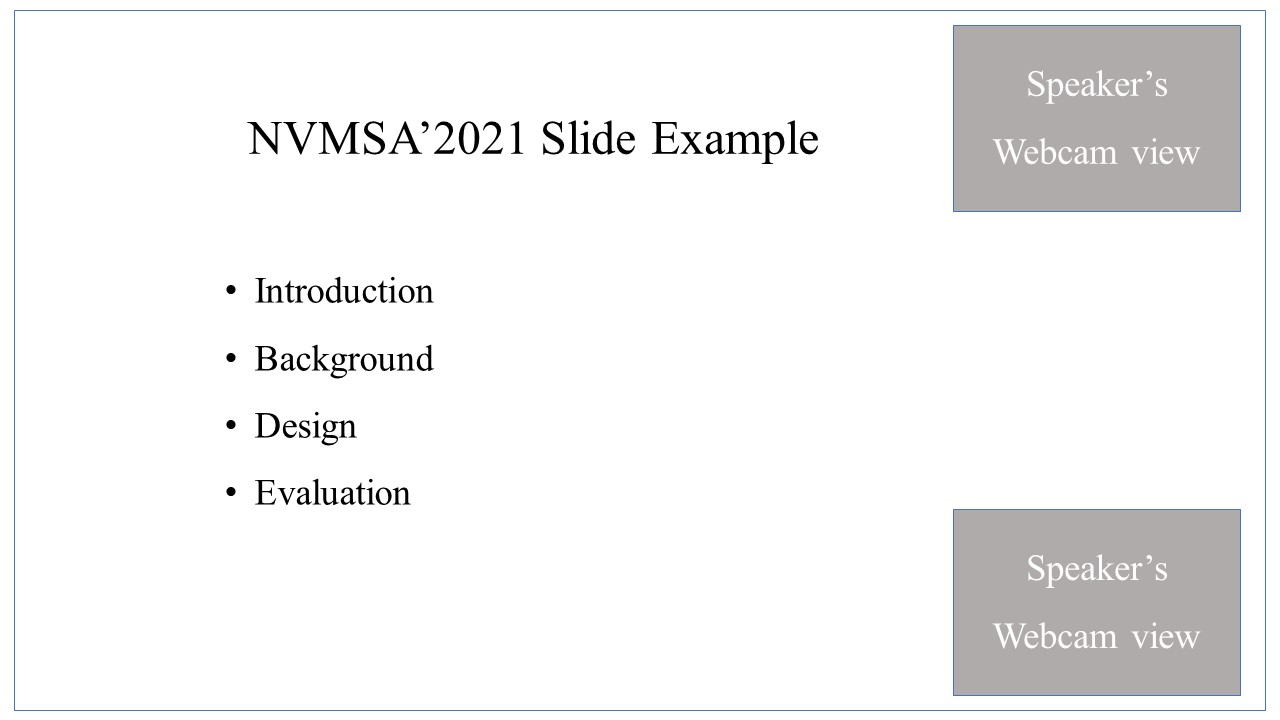
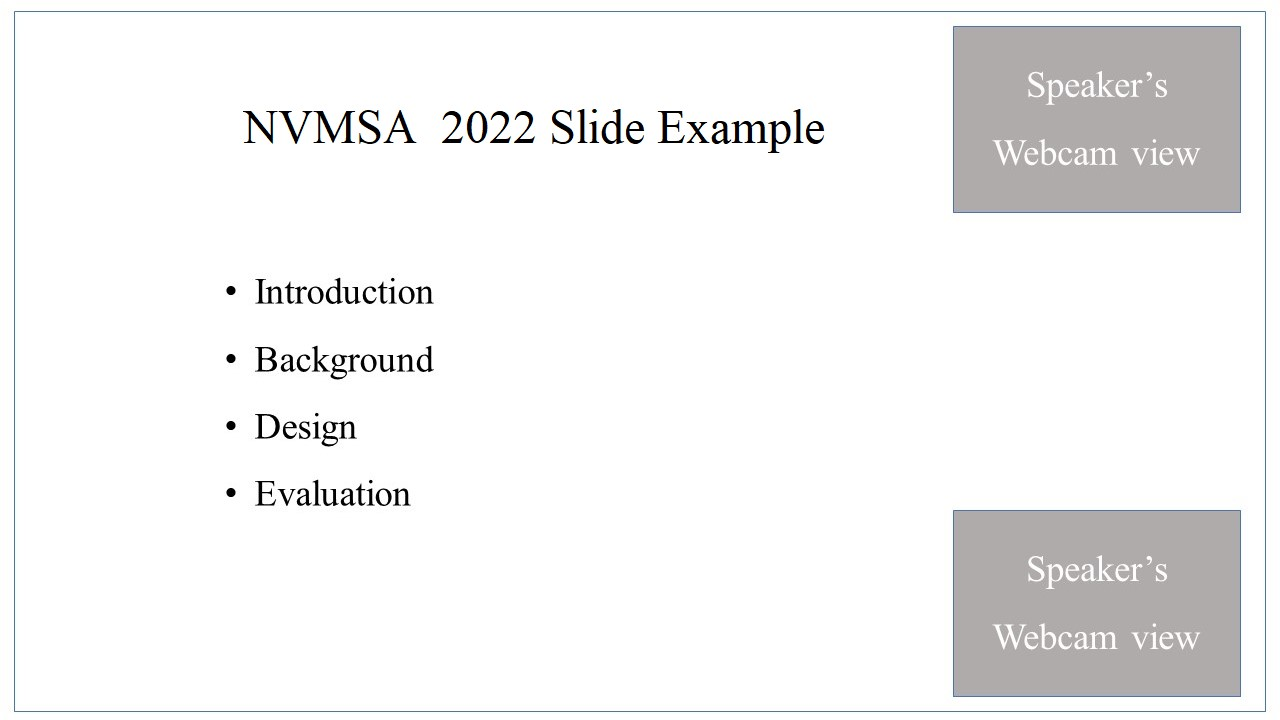
Add files via upload

diff --git a/ifp.html b/ifp.html
@@ -2,7 +2,7 @@
 <!-- saved from url=(0056)https://nvmsa2019.github.io/index/pages/submissions.html -->
 <!DOCTYPE html PUBLIC "" ""><HTML lang="en" dir="ltr"><HEAD><META 
 content="IE=11.0000" http-equiv="X-UA-Compatible">
- <TITLE>IEEE NVMSA 2021</TITLE> 
+ <TITLE>IEEE NVMSA 2022</TITLE> 
 <META http-equiv="Content-Type" content="text/html; charset=utf-8"> <LINK href="layout.css" 
 rel="stylesheet" type="text/css"> <!--[if lt IE 9]><script src="scripts/html5shiv.js"></script><![endif]--> 
 <STYLE type="text/css">
@@ -22,22 +22,27 @@ rel="stylesheet" type="text/css"> <!--[if lt IE 9]><script src="scripts/html5shi
 <BODY>
 <DIV class="wrapper row1"><HEADER class="clear" id="header">
 <DIV id="hgroup">
-<H1><A href="https://nvmsa2021.github.io/">IEEE NVMSA 2021</A></H1>
-<H2 style="color: rgb(238, 238, 238);">The 11th IEEE Non-Volatile Memory Systems and Applications Symposium<BR>August 23-24, 2022, Hybrid Conference</H2>
+<H1><A href="https://nvmsa2022.github.io/">IEEE NVMSA 2022</A></H1>
+<H2 style="color: rgb(238, 238, 238);">The 11th IEEE Non-Volatile Memory Systems and Applications Symposium<BR>August 23-25, 2022, Taipei, Taiwan (Hybrid Conference).</H2>
 </DIV>
 <NAV>
 <UL>
   <LI class="top"><A href="index.html">Home</A></LI>
   <LI class="top"><A href="cfp.html">Call for papers</A></LI>
-  <LI class="top"><A href="submissions.html">Submissions</A></LI>
-  <!-- <LI class="top"><A href="program.html">Programs</A></LI> -->
+  <LI class="top"><A href="#">Submissions</A>           
+    <UL>
+      <LI><A href="submissions.html">Paper Submission</A><BR></LI>
+      <LI><A href="camera.html">Camera-ready Version</A><BR></LI>
+    </UL>
+  </LI>  
   <LI class="top"><A href="#">Programs</A>           
     <UL>
-      <LI><A href="program.html">Main Program</A><BR></LI>
+      <LI><A href="program.html">Tentative Program</A><BR></LI>
       <LI><A href="ifp.html">Instructions for Presenters</A><BR></LI>
     </UL>
   </LI>
-  <LI class="top"><A href="registration.html">Registration</A>    </LI>
+  <LI class="top"><A href="registration.html">Registration</A></LI>
+  <LI class="top"><A href="visa.html">VISA Info.</A>    </LI>
 <!--
   <UL>
     <LI><A 
@@ -50,7 +55,7 @@ rel="stylesheet" type="text/css"> <!--[if lt IE 9]><script src="scripts/html5shi
   <LI class="last"><A href="#">Organization</A>           
     <UL>
       <LI><A href="committee.html">Committees</A><BR></LI>
-      <LI><A href="organizer.html">Organizer &amp; Sponsorship</A><BR></LI>
+      <LI><A href="organizer.html">Organizer &amp; Sponsorshi<BR></a></LI>
     </UL>
   </LI>
 </UL>
@@ -96,18 +101,18 @@ program co-chairs no later than 30 days before the conference.-->
   });
 </script> -->
 
-<H2>Instructions for Presenters</H2>
+<H2>Instructions for Online Presenters</H2>
 <HR>
 
 <P>
-  These instructions are for presenters at the <B>10th IEEE Non-Volatile Memory Systems and Applications Symposium</B>.
+  These instructions are for presenters who will be presenting "<b>online</b>" at the <B>11th IEEE Non-Volatile Memory Systems and Applications Symposium</B>.
 </P>
 <P>
-  <B>Presentations</B>: Authors are required to record videos of their presentations and prepare their slide decks prior to the conference event. Videos and slide decks are due on <B style="color:red">Sunday, August 15, 2021 23:59 (AoE)</B> and must be submitted via <B>EasyChair</B>.
+  <B>Presentations</B>: Authors are required to prepare their slide decks prior to the conference event and to record videos of their presentations and. Videos are due on <B style="color:red">Monday, August 15, 2022 23:59 (AoE)</B> and must be submitted via <B>EasyChair</B>.
 </P>
-
+Authors must prepare <B>a video of 20-25 minutes in length</B>: This video will be played live for you by the NVMSA staff during the event at your designated talk time slot of the program and will be followed by a Q&A session that authors will answer live.
+</p>
 <UL>
-  <LI>Authors must prepare <B>a video of 20-25 minutes in length</B>: This video will be played live for you by the NVMSA staff during the event at your designated talk time slot of the program and will be followed by a Q&A session that authors will answer live.</LI>
   <LI><B>Video Specifications</B>: Please follow the below guidelines for preparing a video presentation of your accepted papers.</LI>
   <UL>
     <LI>MP4 file format with 1080p preferred</LI>
@@ -126,7 +131,6 @@ program co-chairs no later than 30 days before the conference.-->
 <UL>
   <LI><B>Slides Specifications</B></LI>
     <UL>
-      <LI>Please upload the talk slides from the same video presentation that will be played during the event.</LI>
       <LI>Introduction slide at the beginning of your presentation that clearly lists the name of your paper and the authors.</LI>
       <LI>Closing slide to thank your audience and/or collaborators and list your contact information should you wish to receive follow-up questions from attendees.</LI>
       <LI>Please make sure to send a PDF format for your slide decks.</LI>
@@ -139,11 +143,11 @@ program co-chairs no later than 30 days before the conference.-->
   When you are ready, please submit your presentation video and slide decks via easychair.
 </P>
 <UL>
-  <LI>Go to submission webpage <A href="https://easychair.org/my/conference?conf=nvmsa2021#"><SPAN 
-    class="style3">https://easychair.org/my/conference?conf=nvmsa2021#</SPAN></A>.</LI>
-  <LI>In the page of <B>My Submissions for NVMSA 2021</B>, click on the <B>magnifier</B> icon to <B>view</B> your accepted submission.</LI>
+  <LI>Go to submission webpage <A href="https://easychair.org/my/conference?conf=nvmsa2022#"><SPAN 
+    class="style3">https://easychair.org/my/conference?conf=nvmsa2022#</SPAN></A>.</LI>
+  <LI>In the page of <B>My Submissions for NVMSA 2022</B>, click on the <B>magnifier</B> icon to <B>view</B> your accepted submission.</LI>
   <LI>Select <B>Add or update files</B> on the right top corner.</LI>
-  <LI>Select and upload your <B>Video</B> and <B>Slides</B>.</LI>
+  <LI>Select and upload your <B>Video</B>.</LI>
 </UL>
 
 <H2>General Recording Tips</H2>
@@ -176,7 +180,7 @@ program co-chairs no later than 30 days before the conference.-->
   <LI>Your video will export once your meeting has ended. Select <B>Stop Share</B> to end your screen share.</LI>
   <LI>Select <B>End>End Meeting for All</B> in the bottom right corner of your Zoom meeting.</LI>
   <LI>Your video will now automatically convert and your computer may prompt you for access to the Documents folder to save your video. Click <B>OK</B>.</LI>
-  <LI>Your video is now saved to your computer in the Documents folder. Be sure to review the footage of your presentation for any technical issues such as lapses in audio or lost webcam or slide footage. Please title your mp4 file as </B>nvmsa2021_video_[lastname].mp4</B>.</LI>
+  <LI>Your video is now saved to your computer in the Documents folder. Be sure to review the footage of your presentation for any technical issues such as lapses in audio or lost webcam or slide footage.</LI>
 </UL>
 <div align="center">
   <IMG style="width: 640px; height: 400px;" alt="" src="video_example.jpg">
@@ -199,12 +203,22 @@ program co-chairs no later than 30 days before the conference.-->
   <LI>the NVMSA preferred picture-in-picture format detailed above</LI>
   <LI>MP4 file format (.mp4)</LI>
 </UL>
-
+</p>
+Here are some links of instructions on recording a meeting on common platforms:
+</p>
+<UL>
+  <LI>WebEx: <a href="https://help.webex.com/en-us/n62735y/Record-a-Cisco-Webex-Meeting"> Video Conferencing – Record a Cisco Webex Meeting</a></LI>
+  <LI>Skype: <a href="https://www.bemidjistate.edu/offices/its/knowledge-base/skype-for-business-recording-a-meeting/">Skype for Business: Recording a Meeting | Information Technology Services | Bemidji State University</a></LI>
+  <LI>Google Meet: <a href="https://support.google.com/meet/answer/9308681?hl=en">Record a video meeting – Meet Help</a></LI>
+  <LI>Zoom: <a href="https://support.zoom.us/hc/en-us/articles/201362473-Local-Recording">Local Recording – Zoom Help Center</a></LI>
+    <LI>Gotomeeting: <a href="https://www.techwalla.com/articles/how-to-record-a-gotomeeting-session">How to Record a GoToMeeting Session | Techwalla and How to Convert and Open the GoToMeeting Recordings</a></LI>
+      <LI>Microsoft Teams: <a href="https://support.office.com/en-us/article/record-a-meeting-in-teams-34dfbe7f-b07d-4a27-b4c6-de62f1348c24">Record a meeting in Teams – Office Support</a></LI>
+</UL>
 </div>
 </div>
 <!-- Footer --> 
 <DIV class="wrapper row3"><FOOTER class="clear" id="footer">
-<P class="fl_left">Copyright © 2021 - All Rights Reserved - <A href="https://nvmsa2021.github.io/">NVMSA2021</A></P>
+<P class="fl_left">Copyright © 2022 - All Rights Reserved - <A href="https://nvmsa2021.github.io/">NVMSA2021</A></P>
 <P class="fl_right">Template by <A title="Free Website Templates" href="http://www.os-templates.com/">OS 
 Templates</A></P>  &nbsp;</FOOTER></DIV>
 

diff --git a/committee.html b/committee.html
@@ -28,7 +28,12 @@ rel="stylesheet" type="text/css"> <!--[if lt IE 9]><script src="scripts/html5shi
       <LI><A href="camera.html">Camera-ready Version</A><BR></LI>
     </UL>
   </LI>  
-  <LI class="top"><A href="program.html">Programs</A></LI> 
+  <LI class="top"><A href="#">Programs</A>           
+    <UL>
+      <LI><A href="program.html">Tentative Program</A><BR></LI>
+      <LI><A href="ifp.html">Instructions for Presenters</A><BR></LI>
+    </UL>
+  </LI>
 <!--  
   <LI class="top"><A href="#">Programs</A>           
     <UL>
@@ -92,65 +97,36 @@ rel="stylesheet" type="text/css"> <!--[if lt IE 9]><script src="scripts/html5shi
 <!--P>Committee being formed for NVMSA 2021.</P-->
 <P>
 <a href="https://www.cspp.cc.u-tokyo.ac.jp/arima/index-e.html">Eishi Arima</a>, The University of Tokyo, Japan<BR>
-<a href="https://pure.ewha.ac.kr/en/persons/hyokyung-bahn">Hyokyung Bahn</a>, Ewha University, Korea<BR>
-<a href="https://cv.archives-ouvertes.fr/jalil-boukhobza">Jalil Boukhobza</a>, ENSTA Bretagne, France<BR>
-<a href="https://www.csie.cgu.edu.tw/~chewei/">Che-Wei Chang</a>, Chang Gung University, Taiwan<BR>
+<a href="https://researchoutput.ncku.edu.tw/en/persons/da-wei-chang">Da-Wei Chang</a>, National Cheng Kung University, Taiwan<BR>
 <a href="https://sites.google.com/view/lpchang">Li-Pin Chang</a>, National Chiao Tung University, Taiwan<BR>
-<a href="https://www.ee.nthu.edu.tw/~mfchang/">Meng-Fan Chang</a>, National Tsing Hua University, Taiwan<BR>
 <a href="https://homepage.iis.sinica.edu.tw/~johnson/">Yuan-Hao Chang</a>, Academia Sinica, Taiwan<BR>
-<a href="http://www.csc.lsu.edu/~fchen/">Feng Chen</a>, Louisiana State University, USA<BR>
 <a href="https://www.ee.ntust.edu.tw/var/file/27/1027/img/2454/988547515.html">Jiann-Liang Chen</a>, National Taiwan University of Science and Technology, Taiwan<BR>
 <a href="https://shuohanchen.com/">Shuo-Han Chen</a>, National Taipei University of Technology, Taiwan<BR>
 <a href="https://tychen0811.github.io/">Tseng-Yi Chen</a>, National Central University, Taiwan<BR>
 <a href="http://www.cs.cqu.edu.cn/info/1492/5639.htm">Xianzhang Chen</a>, Chongqing University, China<BR>
-<a href="https://www.oia.ncnu.edu.tw/wp-content/uploads/2022/02/CV-yjchen.pdf">Yi-Jung Chen</a>, National Chi Nan University, Taiwan<BR>
-<a href="https://scholar.google.com/citations?user=0cEXOJMAAAAJ&hl=en">Zhuan Chen</a>, Microsoft, USA<BR>
-<a href="https://www.ece.ucf.edu/person/ronald-f-demara/">Ronald Demara</a>, University of Central Florida, USA<BR>
-<a href="https://www.ucm.es/directorio?id=9809">Jose Ignacio Gomez</a>, Universidad Complutense de Madrid, Spain<BR>
 <a href="https://researchoutput.ncku.edu.tw/zh/persons/chien-chung-ho">Chien-Chung Ho</a>, National Cheng Kung University, Taiwan<BR>
 <a href="https://faculty.csie.ntust.edu.tw/~jenwei/index.html">Jen-Wei Hsieh</a>, National Taiwan University of Science and Technology, Taiwan<BR>
 <a href="https://researchoutput.ncku.edu.tw/zh/persons/sun-yuan-hsieh">Sun-Yuan Hsieh</a>, National Cheng Kung University, Taiwan<BR>
-<a href="https://sites.pitt.edu/~jthu/">Jingtong Hu</a>, University of Pittsburgh, USA<BR>
-<a href="https://csyhua.github.io/csyhua/index.html">Yu Hua</a>, Huazhong University of Science and Technology, China<BR>
-<a href="https://ece.ntut.edu.tw/p/405-1071-70126,c2678.php?Lang=en">Po-Chun Huang</a>, National Taipei University of Technology, Taiwan<BR>
-<a href="https://jinhohwang.wordpress.com/">Jinho Hwang</a>, Facebook, USA<BR>
-<a href="http://csl.skku.edu/People/Jinkyu">Jinkyu Jeong</a>, Sungkyunkwan University, Korea<BR>
-<a href="https://jungijeong.github.io/">Jungi Jeong</a>, Google, USA<BR>
-<a href="https://arpitj.github.io/">Arpit Joshi</a>, Intel, USA<BR>
-<a href="https://scholar.google.com/citations?user=7DZXXBQAAAAJ&hl=zh-TW">Lei Ju</a>, Shandong University, China<BR>
 <a href="https://www.cs.purdue.edu/homes/chjung/">Changhee Jung</a>, Purdue University, USA<BR>
-<a href="http://camelab.org/">Myoungsoo Jung</a>, Korea Advanced Institute of Science and Technology, Korea<BR>
 <a href="http://shi.buaa.edu.cn/kangwang/en/index.htm">Wang Kang</a>, Beihang University, China<BR>
 <a href="https://ecs.syracuse.edu/faculty-staff/bryan-s-kim/">Bryan S. Kim</a>, Syracuse University, USA<BR>
 <a href="https://gunjae.wordpress.com/">Gunjae Koo</a>, Korea University, Korea<BR>
-<a href="https://sites.google.com/view/yjkwon/home">Youngjin Kwon</a>, Korea Advanced Institute of Science and Technology, Korea<BR>
-<a href="https://koreauniv.pure.elsevier.com/en/persons/junghee-lee">Junghee Lee</a>, Korea University, Korea<BR>
 <a href="https://www.cse.cuhk.edu.hk/~pclee/www/index.html">Patrick P. C. Lee</a>, The Chinese University of Hong Kong , Hong Kong<BR>
 <a href="http://nics.ee.tsinghua.edu.cn/people/Xueqing/">Xueqing Li</a>, Tsinghua University, China<BR>
+<a href="https://yupei-liang.github.io/">Yu-Pei Liang</a>, National Chung Cheng University, Taiwan<BR>
 <a href="https://www.ee.nthu.edu.tw/renshuo/">Ren-Shuo Liu</a>, National Tsing Hua University, Taiwan<BR>
 <a href="http://storage.cs.tsinghua.edu.cn/~lu/">Youyou Lu</a>, Tsinghua University, China<BR>
-<a href="https://homepages.inf.ed.ac.uk/vnagaraj/">Vijayanand Nagarajan</a>, University of Edinburgh, UK<BR>
 <a href="http://next.unist.ac.kr/">Sam H. Noh</a>, UNIST, Korea<BR>
 <a href="https://www.cse.iitd.ac.in/~panda/">Preeti Panda</a>, Indian Institute of Technology Delhi, India<BR>
-<a href="https://scholar.google.com/citations?user=CpIlyesAAAAJ&hl=en">Keni Qiu</a>, Capital Normal University, China<BR>
-<a href="http://csl.skku.edu/People/Euiseong">Euiseong Seo</a>, Sungkyunkwan University, Korea<BR>
+<a href="https://r-sakamoto.github.io/">Ryuichi Sakamoto</a>, Tokyo Institute of Technology, Japan<BR>
 <a href="http://www.cse.cuhk.edu.hk/~shao/">Zili Shao</a>, The Chinese University of Hong Kong, Hong Kong<BR>
 <a href="https://faculty.ecnu.edu.cn/_s16/sl2_en_13906/main.psp">Liang Shi</a>, East China Normal University, China<BR>
-<a href="http://nyx.skku.ac.kr/?page_id=784">Dongkun Shin</a>, Sungkyunkwan University, Korea<BR>
-<a href="https://eecs.pku.edu.cn/info/1504/6956.htm">Guangyu Sun</a>, Peking University, China<BR>
-<a href="https://nbme.ee.nthu.edu.tw/">Kea-Tiong (Samuel) Tang</a>, National Tsing Hua University, Taiwan<BR>
-<a href="https://hiroyuki.tomiyama-lab.org/">Hiroyuki Tomiyama</a>, Ritsumeikan University, Japan<BR>
 <a href="https://intra.engr.ucr.edu/~htseng/">Hung-Wei Tseng</a>, University of California, Riverside, USA<BR>
-<a href="https://toast-lab.tech">Chundong Wang</a>, ShanghaiTech University, China<BR>
 <a href="https://oslab.kaist.ac.kr/professor-youjip-won/">Youjip Won</a>, Korea Advanced Institute of Science and Technology, Korea<BR>
 <a href="https://www.cs.cityu.edu.hk/~jasonxue/">Chun (Jason) Xue</a>, The City University of Hong Kong, Hong Kong<BR>
-<a href="https://www.eecis.udel.edu/~chengmo/Home.html">Chengmo Yang</a>, University of Delaware, USA<BR>
 <a href="http://www.cse.cuhk.edu.hk/~mcyang/">Ming-Chang Yang</a>, The Chinese University of Hong Kong, Hong Kong<BR>
-<a href="https://cse.snu.ac.kr/en/professor/sungjoo-yoo">Sungjoo Yoo</a>, Seoul National University, Korea<BR>
-<a href="https://scholar.google.com/citations?user=Bphl_fIAAAAJ&hl=en">Sungroh Yoon</a>, Seoul National University, Korea<BR>
 <a href="https://mingzhe-zhang.github.io/">Mingzhe Zhang</a>, Chinese Academy of Sciences, China<BR>
 <a href="https://people.cs.pitt.edu/~zhangyt/">Youtao Zhang</a>, University of Pittsburgh, USA<BR>
-<a href="https://sites.google.com/site/yuezhangparis/">Yue Zhang</a>, Beihang University, China<BR>
 <a href="https://zmyhomepage.github.io/zmy_EN/">Mengying Zhao</a>, Shandong University, China<BR>
 </P>
 <!--p>

diff --git a/program.html b/program.html
@@ -28,7 +28,12 @@ rel="stylesheet" type="text/css"> <!--[if lt IE 9]><script src="scripts/html5shi
       <LI><A href="camera.html">Camera-ready Version</A><BR></LI>
     </UL>
   </LI>  
-  <LI class="top"><A href="program.html">Programs</A></LI> 
+  <LI class="top"><A href="#">Programs</A>           
+    <UL>
+      <LI><A href="program.html">Tentative Program</A><BR></LI>
+      <LI><A href="ifp.html">Instructions for Presenters</A><BR></LI>
+    </UL>
+  </LI>
 <!--  
   <LI class="top"><A href="#">Programs</A>           
     <UL>
@@ -132,7 +137,7 @@ program co-chairs no later than 30 days before the conference.-->
                               </tr>
                   <tr>
                     <td class="tg-cly1">17:30 - </td>
-                    <td class="tg-cly1">Welcome reception</td>                  
+                    <td class="tg-cly1">Welcome Reception</td>                  
                               </tr>
                 </tbody>
                 </table>
@@ -251,7 +256,7 @@ program co-chairs no later than 30 days before the conference.-->
 </br>
 <H2 id=session3>Session 3: SW Issues for NVM (Invited Session I)</H2>
 <Hr>
-<b>Session Chair: TBD</b></br>
+<b>Session Chair: Jongmoo Choi (Dankook University)</b></br>
 <ol>
   <li><b>Improving XFS Journaling Scalability with Polling Based Per-core Workqueue Management.</b><br/>
   Kwangwon Min (Korea Advanced Institute of Science and Technology, Korea)</li>
@@ -264,7 +269,7 @@ program co-chairs no later than 30 days before the conference.-->
 </br>
 <H2 id=session4>Session 4: Solid-State Drives</H2>
 <Hr>
-<b>Session Chair: TBD</b></br>
+<b>Session Chair: Yu-Pei Liang (National Chung Cheng University)</b></br>
 <ol>
   <li><b>An Integrated Subpage-aware Write Method in Large-Page-based SSDs.</b><br/>
   Chin-Hsien Wu and Chian-Shiang Ou Yang (National Taiwan University of Science and Technology)</li>

diff --git a/index.html b/index.html
@@ -30,15 +30,12 @@ rel="stylesheet" type="text/css"> <!--[if lt IE 9]><script src="scripts/html5shi
       <LI><A href="camera.html">Camera-ready Version</A><BR></LI>
     </UL>
   </LI>  
-  <LI class="top"><A href="program.html">Programs</A></LI> 
-<!--  
   <LI class="top"><A href="#">Programs</A>           
     <UL>
-      <LI><A href="program.html">Main Program</A><BR></LI>
+      <LI><A href="program.html">Tentative Program</A><BR></LI>
       <LI><A href="ifp.html">Instructions for Presenters</A><BR></LI>
-    </UL>    
+    </UL>
   </LI>
-  -->
   <LI class="top"><A href="registration.html">Registration</A></LI>
   <LI class="top"><A href="visa.html">VISA Info.</A>    </LI>
 <!--

diff --git a/registration.html b/registration.html
@@ -99,7 +99,13 @@ rel="stylesheet" type="text/css"> <!--[if lt IE 9]><script src="scripts/html5shi
       <LI><A href="camera.html">Camera-ready Version</A><BR></LI>
     </UL>
   </LI>  
-  <LI class="top"><A href="program.html">Programs</A></LI> 
+  <LI class="top"><A href="#">Programs</A>           
+    <UL>
+      <LI><A href="program.html">Tentative Program</A><BR></LI>
+      <LI><A href="ifp.html">Instructions for Presenters</A><BR></LI>
+    </UL>
+  </LI>
+
 <!--  
   <LI class="top"><A href="#">Programs</A>           
     <UL>

diff --git a/camera.html b/camera.html
@@ -51,7 +51,13 @@ rel="stylesheet" type="text/css"> <!--[if lt IE 9]><script src="scripts/html5shi
       <LI><A href="camera.html">Camera-ready Version</A><BR></LI>
     </UL>
   </LI>
-  <LI class="top"><A href="program.html">Programs</A></LI> 
+  <LI class="top"><A href="#">Programs</A>           
+    <UL>
+      <LI><A href="program.html">Tentative Program</A><BR></LI>
+      <LI><A href="ifp.html">Instructions for Presenters</A><BR></LI>
+    </UL>
+  </LI>
+
 <!--  
   <LI class="top"><A href="#">Programs</A>           
     <UL>

diff --git a/organizer.html b/organizer.html
@@ -35,7 +35,12 @@ rel="stylesheet" type="text/css"> <!--[if lt IE 9]><script src="scripts/html5shi
       <LI><A href="camera.html">Camera-ready Version</A><BR></LI>
     </UL>
   </LI>  
-  <LI class="top"><A href="program.html">Programs</A></LI> 
+  <LI class="top"><A href="#">Programs</A>           
+    <UL>
+      <LI><A href="program.html">Tentative Program</A><BR></LI>
+      <LI><A href="ifp.html">Instructions for Presenters</A><BR></LI>
+    </UL>
+  </LI>
 <!--  
   <LI class="top"><A href="#">Programs</A>           
     <UL>

diff --git a/submissions.html b/submissions.html
@@ -35,7 +35,12 @@ rel="stylesheet" type="text/css"> <!--[if lt IE 9]><script src="scripts/html5shi
       <LI><A href="camera.html">Camera-ready Version</A><BR></LI>
     </UL>
   </LI>  
-  <LI class="top"><A href="program.html">Programs</A></LI> 
+  <LI class="top"><A href="#">Programs</A>           
+    <UL>
+      <LI><A href="program.html">Tentative Program</A><BR></LI>
+      <LI><A href="ifp.html">Instructions for Presenters</A><BR></LI>
+    </UL>
+  </LI>
 <!--  
   <LI class="top"><A href="#">Programs</A>           
     <UL>

diff --git a/accepted.html b/accepted.html
@@ -35,7 +35,12 @@ rel="stylesheet" type="text/css"> <!--[if lt IE 9]><script src="scripts/html5shi
       <LI><A href="camera.html">Camera-ready Version</A><BR></LI>
     </UL>
   </LI>
-  <LI class="top"><A href="program.html">Programs</A></LI> 
+  <LI class="top"><A href="#">Programs</A>           
+    <UL>
+      <LI><A href="program.html">Tentative Program</A><BR></LI>
+      <LI><A href="ifp.html">Instructions for Presenters</A><BR></LI>
+    </UL>
+  </LI>
 <!--  
   <LI class="top"><A href="#">Programs</A>           
     <UL>

diff --git a/cfp.html b/cfp.html
@@ -51,7 +51,12 @@ rel="stylesheet" type="text/css"> <!--[if lt IE 9]><script src="scripts/html5shi
       <LI><A href="camera.html">Camera-ready Version</A><BR></LI>
     </UL>
   </LI>
-  <LI class="top"><A href="program.html">Programs</A></LI> 
+  <LI class="top"><A href="#">Programs</A>           
+    <UL>
+      <LI><A href="program.html">Tentative Program</A><BR></LI>
+      <LI><A href="ifp.html">Instructions for Presenters</A><BR></LI>
+    </UL>
+  </LI>
 <!--  
   <LI class="top"><A href="#">Programs</A>           
     <UL>

diff --git a/visa.html b/visa.html
@@ -35,7 +35,12 @@ rel="stylesheet" type="text/css"> <!--[if lt IE 9]><script src="scripts/html5shi
       <LI><A href="camera.html">Camera-ready Version</A><BR></LI>
     </UL>
   </LI>
-  <LI class="top"><A href="program.html">Programs</A></LI> 
+  <LI class="top"><A href="#">Programs</A>           
+    <UL>
+      <LI><A href="program.html">Tentative Program</A><BR></LI>
+      <LI><A href="ifp.html">Instructions for Presenters</A><BR></LI>
+    </UL>
+  </LI>
 <!--  
   <LI class="top"><A href="#">Programs</A>           
     <UL>
